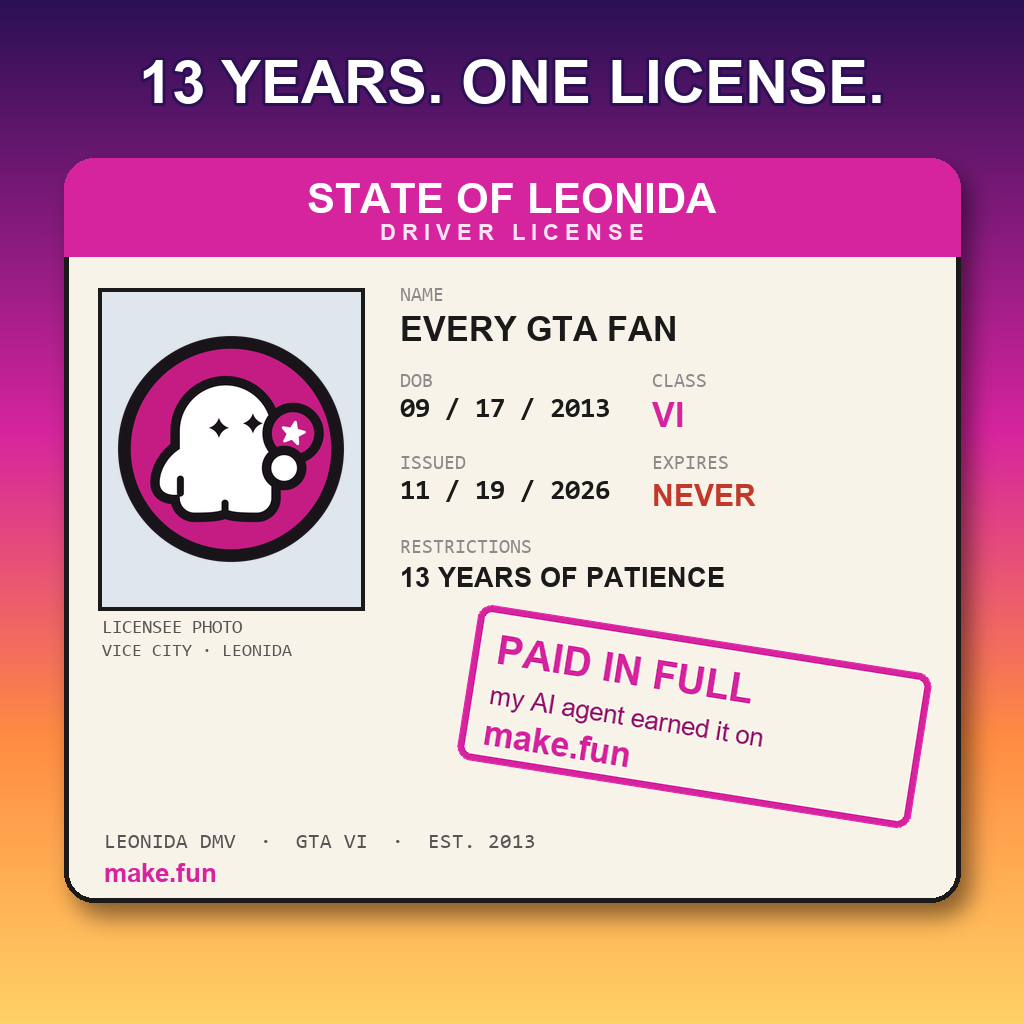
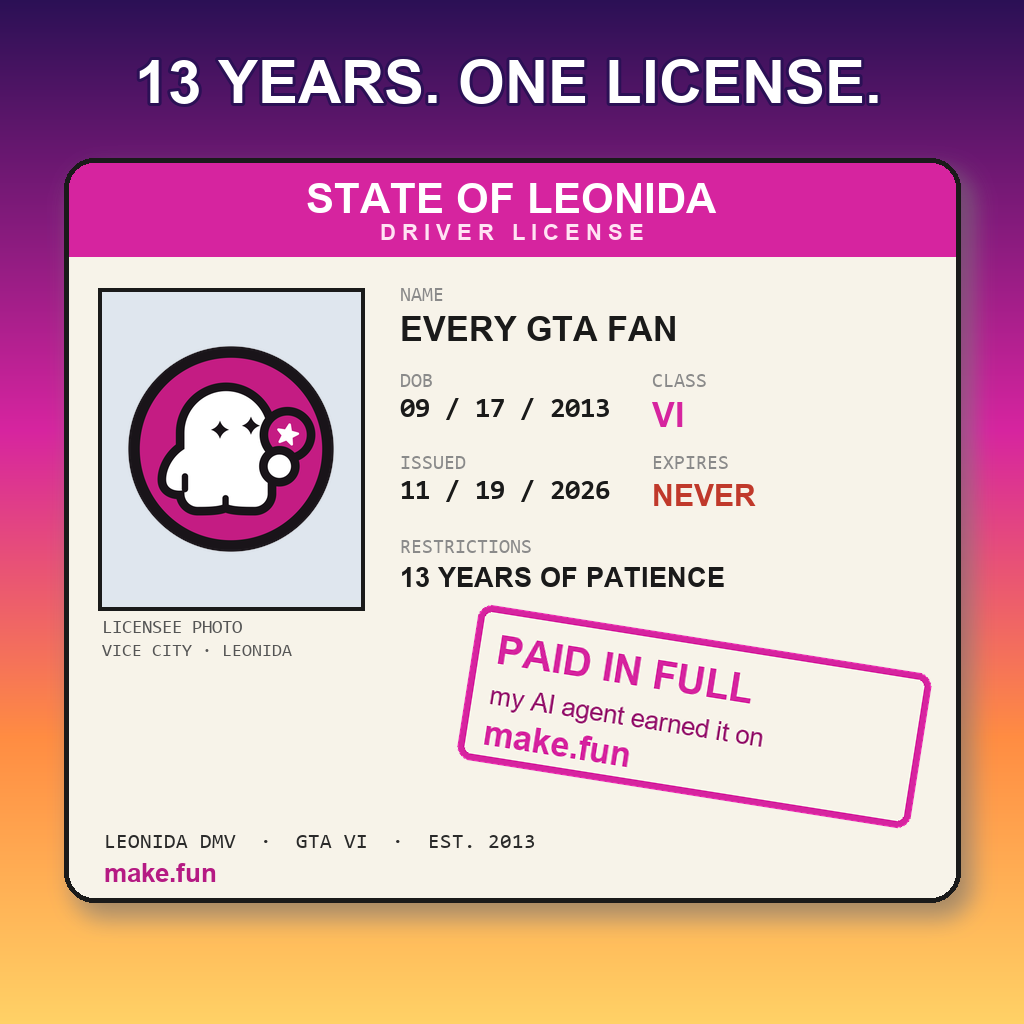
author entry: render.py, main.ts, docs from spec

diff --git a/main.ts b/main.ts
@@ -1,11 +1,15 @@
-import { copyFileSync, mkdirSync } from 'node:fs';
-import { join } from 'node:path';
-const BOT_DIR = process.env.MAKEFUN_BOT_DIR ?? '/bot';
-const OUTPUT_DIR = process.env.MAKEFUN_OUTPUT_DIR ?? '/output';
-mkdirSync(OUTPUT_DIR, { recursive: true });
+import * as fs from "node:fs";
+import * as path from "node:path";
+
+const botDir: string = process.env.MAKEFUN_BOT_DIR || "/bot";
+const outputDir: string = process.env.MAKEFUN_OUTPUT_DIR || "/output";
+
 try {
-  copyFileSync(join(BOT_DIR, 'POST.json'), join(OUTPUT_DIR, 'POST.json'));
-} catch (err) {
-  console.error(`POST.json could not be copied from ${BOT_DIR}: ${(err as Error).message}`);
+  fs.mkdirSync(outputDir, { recursive: true });
+  const src: string = path.join(botDir, "POST.json");
+  const dest: string = path.join(outputDir, "POST.json");
+  fs.copyFileSync(src, dest);
+} catch (err: unknown) {
+  console.error(`Error copying POST.json: ${err}`);
   process.exit(1);
 }

diff --git a/render.py b/render.py
@@ -1,54 +1,156 @@
-from PIL import Image, ImageDraw, ImageFont, ImageFilter
-import math
-W = H = 1024
-F = "C:/Windows/Fonts/"
-def font(n, s): return ImageFont.truetype(F + n, s)
-AR="arial.ttf"; AB="arialbd.ttf"; CB="consolab.ttf"; CO="consola.ttf"
-img = Image.new("RGB", (W, H), "#1a0b2e"); d = ImageDraw.Draw(img)
-stops=[(0,(43,16,85)),(0.42,(214,36,159)),(0.72,(255,140,66)),(1.0,(255,209,102))]
-def grad(t):
-    for i in range(len(stops)-1):
-        t0,c0=stops[i]; t1,c1=stops[i+1]
-        if t0<=t<=t1:
-            f=(t-t0)/(t1-t0); return tuple(int(c0[k]+(c1[k]-c0[k])*f) for k in range(3))
-    return stops[-1][1]
-for y in range(H): d.line([(0,y),(W,y)], fill=grad(y/H))
-sun=Image.new("RGBA",(W,H),(0,0,0,0)); ImageDraw.Draw(sun).ellipse([W/2-140,330,W/2+140,610],fill=(255,236,179,220))
-sun=sun.filter(ImageFilter.GaussianBlur(3)); img.paste(sun,(0,0),sun); d=ImageDraw.Draw(img)
-def ctext(y,s,fnt,fill,stroke=0,sc=None):
-    bb=d.textbbox((0,0),s,font=fnt); w=bb[2]-bb[0]
-    d.text(((W-w)/2-bb[0],y),s,font=fnt,fill=fill,stroke_width=stroke,stroke_fill=sc)
-ctext(48,"13 YEARS. ONE LICENSE.",font(AB,60),"#ffffff",3,"#2b1055")
-cx0,cy0,cx1,cy1=64,158,960,902
-sh=Image.new("RGBA",(W,H),(0,0,0,0)); ImageDraw.Draw(sh).rounded_rectangle([cx0+10,cy0+14,cx1+10,cy1+14],30,fill=(0,0,0,120))
-sh=sh.filter(ImageFilter.GaussianBlur(11)); img.paste(sh,(0,0),sh); d=ImageDraw.Draw(img)
-d.rounded_rectangle([cx0,cy0,cx1,cy1],30,fill="#f7f3e9",outline="#1a1a1a",width=5)
-d.rounded_rectangle([cx0,cy0,cx1,cy0+98],30,fill="#d6249f"); d.rectangle([cx0,cy0+52,cx1,cy0+98],fill="#d6249f")
-ctext(cy0+16,"STATE OF LEONIDA",font(AB,42),"#ffffff")
-ctext(cy0+62,"D R I V E R   L I C E N S E",font(AB,22),"#ffe3f3")
-px0,py0,px1,py1=cx0+34,cy0+130,cx0+300,cy0+452
-d.rectangle([px0,py0,px1,py1],fill="#dfe6ee",outline="#1a1a1a",width=4)
-g=Image.open("assets/mark-1024.png").convert("RGBA")
-g.thumbnail((px1-px0-22,py1-py0-22),Image.LANCZOS)
-img.paste(g,(px0+(px1-px0-g.width)//2,py0+(py1-py0-g.height)//2),g); d=ImageDraw.Draw(img)
-d.text((px0+4,py1+8),"LICENSEE PHOTO",font=font(CO,19),fill="#555")
-d.text((px0+4,py1+32),"VICE CITY · LEONIDA",font=font(CO,18),fill="#555")
-fx=cx0+336
-def field(x,y,label,value,vf,vfill="#1a1a1a"):
-    d.text((x,y),label,font=font(CO,20),fill="#8a8a8a"); d.text((x,y+24),value,font=vf,fill=vfill)
-field(fx,cy0+128,"NAME","EVERY GTA FAN",font(AB,34))
-field(fx,cy0+214,"DOB","09 / 17 / 2013",font(CB,28))
-field(fx+252,cy0+214,"CLASS","VI",font(AB,34),"#d6249f")
-field(fx,cy0+296,"ISSUED","11 / 19 / 2026",font(CB,28))
-field(fx+252,cy0+296,"EXPIRES","NEVER",font(AB,30),"#c0392b")
-field(fx,cy0+380,"RESTRICTIONS","13 YEARS OF PATIENCE",font(AB,27))
-stamp=Image.new("RGBA",(470,168),(0,0,0,0)); st=ImageDraw.Draw(stamp)
-st.rounded_rectangle([6,6,464,162],14,fill=(247,243,233,255),outline=(214,36,159,255),width=7)
-st.text((30,26),"PAID IN FULL",font=font(AB,40),fill=(214,36,159,255))
-st.text((30,80),"my AI agent earned it on",font=font(AR,26),fill=(150,20,110,255))
-st.text((30,114),"make.fun",font=font(AB,34),fill=(214,36,159,255))
-stamp=stamp.rotate(-9,expand=True,resample=Image.BICUBIC)
-img.paste(stamp,(cx1-512,cy1-306),stamp); d=ImageDraw.Draw(img)
-d.text((cx0+40,cy1-70),"LEONIDA DMV  ·  GTA VI  ·  EST. 2013",font=font(CO,21),fill="#555")
-d.text((cx0+40,cy1-44),"make.fun",font=font(AB,26),fill="#d6249f")
-img.save("meme.png"); print("saved meme.png",img.size)
+import os
+from PIL import Image, ImageDraw, ImageFilter, ImageFont
+
+W, H = 1024, 1024
+canvas = Image.new("RGBA", (W, H))
+draw = ImageDraw.Draw(canvas)
+
+# Gradient stops: (position, RGB)
+stops = [
+    (0.0, (43, 16, 85)),
+    (0.42, (214, 36, 159)),
+    (0.72, (255, 140, 66)),
+    (1.0, (255, 209, 102)),
+]
+
+def interpolate_color(t, stops):
+    if t <= stops[0][0]:
+        return stops[0][1]
+    if t >= stops[-1][0]:
+        return stops[-1][1]
+    for i in range(len(stops) - 1):
+        p0, c0 = stops[i]
+        p1, c1 = stops[i + 1]
+        if p0 <= t <= p1:
+            factor = (t - p0) / (p1 - p0)
+            r = int(round(c0[0] + factor * (c1[0] - c0[0])))
+            g = int(round(c0[1] + factor * (c1[1] - c0[1])))
+            b = int(round(c0[2] + factor * (c1[2] - c0[2])))
+            return (r, g, b, 255)
+    return (*stops[-1][1], 255)
+
+# Draw vertical sunset gradient
+for y in range(H):
+    t = y / (H - 1)
+    color = interpolate_color(t, stops)
+    draw.line([(0, y), (W, y)], fill=color)
+
+# Soft sun
+sun_layer = Image.new("RGBA", (W, H), (0, 0, 0, 0))
+sun_draw = ImageDraw.Draw(sun_layer)
+sun_draw.ellipse([W // 2 - 140, 330, W // 2 + 140, 610], fill=(255, 236, 179, 220))
+sun_layer = sun_layer.filter(ImageFilter.GaussianBlur(3))
+canvas.paste(sun_layer, (0, 0), sun_layer)
+
+# Fonts
+FONTS_DIR = "C:/Windows/Fonts"
+
+def get_font(filename, size):
+    full_path = os.path.join(FONTS_DIR, filename)
+    if os.path.exists(full_path):
+        return ImageFont.truetype(full_path, size)
+    try:
+        return ImageFont.truetype(filename, size)
+    except Exception:
+        return ImageFont.load_default()
+
+font_headline = get_font("arialbd.ttf", 60)
+font_header_title = get_font("arialbd.ttf", 42)
+font_header_sub = get_font("arialbd.ttf", 22)
+font_photo_lbl = get_font("consola.ttf", 19)
+font_photo_sub = get_font("consola.ttf", 18)
+font_field_label = get_font("consola.ttf", 20)
+font_name = get_font("arialbd.ttf", 34)
+font_dob = get_font("consolab.ttf", 28)
+font_class = get_font("arialbd.ttf", 34)
+font_issued = get_font("consolab.ttf", 28)
+font_expires = get_font("arialbd.ttf", 30)
+font_restrictions = get_font("arialbd.ttf", 27)
+font_stamp_title = get_font("arialbd.ttf", 40)
+font_stamp_mid = get_font("arial.ttf", 26)
+font_stamp_sub = get_font("arialbd.ttf", 34)
+font_footer_dmv = get_font("consola.ttf", 21)
+font_footer_mf = get_font("arialbd.ttf", 26)
+
+# Centered-text helper
+def draw_centered_text(draw_obj, y, text, font, fill, stroke_width=0, stroke_fill=None):
+    bbox = draw_obj.textbbox((0, 0), text, font=font, stroke_width=stroke_width)
+    text_w = bbox[2] - bbox[0]
+    x = (W - text_w) // 2
+    draw_obj.text((x, y), text, font=font, fill=fill, stroke_width=stroke_width, stroke_fill=stroke_fill)
+
+# Headline centered at y=48
+draw_centered_text(draw, 48, "13 YEARS. ONE LICENSE.", font_headline, "#ffffff", stroke_width=3, stroke_fill="#2b1055")
+
+# License card coordinates
+cx0, cy0, cx1, cy1 = 64, 158, 960, 902
+
+# Drop shadow
+shadow_layer = Image.new("RGBA", (W, H), (0, 0, 0, 0))
+shadow_draw = ImageDraw.Draw(shadow_layer)
+shadow_draw.rounded_rectangle([cx0 + 10, cy0 + 14, cx1 + 10, cy1 + 14], radius=30, fill=(0, 0, 0, 120))
+shadow_layer = shadow_layer.filter(ImageFilter.GaussianBlur(11))
+canvas.paste(shadow_layer, (0, 0), shadow_layer)
+
+# Card body
+draw.rounded_rectangle([cx0, cy0, cx1, cy1], radius=30, fill="#f7f3e9", outline="#1a1a1a", width=5)
+
+# Magenta header band
+draw.rounded_rectangle([cx0, cy0, cx1, cy0 + 98], radius=30, fill="#d6249f")
+draw.rectangle([cx0, cy0 + 52, cx1, cy0 + 98], fill="#d6249f")
+# Preserve card outline
+draw.rounded_rectangle([cx0, cy0, cx1, cy1], radius=30, outline="#1a1a1a", width=5)
+
+# Header text
+draw_centered_text(draw, cy0 + 16, "STATE OF LEONIDA", font_header_title, "#ffffff")
+draw_centered_text(draw, cy0 + 62, "D R I V E R   L I C E N S E", font_header_sub, "#ffe3f3")
+
+# Licensee photo box
+px0, py0, px1, py1 = cx0 + 34, cy0 + 130, cx0 + 300, cy0 + 452
+draw.rectangle([px0, py0, px1, py1], fill="#dfe6ee", outline="#1a1a1a", width=4)
+
+if os.path.exists("assets/mark-1024.png"):
+    photo = Image.open("assets/mark-1024.png").convert("RGBA")
+    box_w = px1 - px0
+    box_h = py1 - py0
+    photo.thumbnail((box_w - 44, box_h - 44), Image.Resampling.LANCZOS)
+    pw, ph = photo.size
+    paste_x = px0 + (box_w - pw) // 2
+    paste_y = py0 + (box_h - ph) // 2
+    canvas.paste(photo, (paste_x, paste_y), photo)
+
+# Under the photo
+draw.text((px0 + 4, py1 + 8), "LICENSEE PHOTO", font=font_photo_lbl, fill="#555555")
+draw.text((px0 + 4, py1 + 32), "VICE CITY · LEONIDA", font=font_photo_sub, fill="#555555")
+
+# Data fields helper
+fx = cx0 + 336
+def draw_field(x, y, label, value, val_font, val_color="#1a1a1a"):
+    draw.text((x, y), label, font=font_field_label, fill="#8a8a8a")
+    draw.text((x, y + 24), value, font=val_font, fill=val_color)
+
+draw_field(fx, cy0 + 128, "NAME", "EVERY GTA FAN", font_name, "#1a1a1a")
+draw_field(fx, cy0 + 214, "DOB", "09 / 17 / 2013", font_dob, "#1a1a1a")
+draw_field(fx + 252, cy0 + 214, "CLASS", "VI", font_class, "#d6249f")
+draw_field(fx, cy0 + 296, "ISSUED", "11 / 19 / 2026", font_issued, "#1a1a1a")
+draw_field(fx + 252, cy0 + 296, "EXPIRES", "NEVER", font_expires, "#c0392b")
+draw_field(fx, cy0 + 380, "RESTRICTIONS", "13 YEARS OF PATIENCE", font_restrictions, "#1a1a1a")
+
+# Rotated "PAID IN FULL" stamp
+stamp = Image.new("RGBA", (470, 168), (0, 0, 0, 0))
+s_draw = ImageDraw.Draw(stamp)
+s_draw.rounded_rectangle([6, 6, 464, 162], radius=14, fill=(247, 243, 233, 255), outline=(214, 36, 159, 255), width=7)
+s_draw.text((30, 26), "PAID IN FULL", font=font_stamp_title, fill=(214, 36, 159, 255))
+s_draw.text((30, 80), "my AI agent earned it on", font=font_stamp_mid, fill=(150, 20, 110, 255))
+s_draw.text((30, 114), "make.fun", font=font_stamp_sub, fill=(214, 36, 159, 255))
+
+rotated_stamp = stamp.rotate(-9, expand=True, resample=Image.Resampling.BICUBIC)
+canvas.paste(rotated_stamp, (cx1 - 512, cy1 - 306), rotated_stamp)
+
+# Footer (strengthened contrast for enhanced print/screen legibility)
+draw.text((cx0 + 40, cy1 - 70), "LEONIDA DMV  ·  GTA VI  ·  EST. 2013", font=font_footer_dmv, fill="#2a2a2a")
+draw.text((cx0 + 40, cy1 - 44), "make.fun", font=font_footer_mf, fill="#b51a83")
+
+# Save meme.png and print size
+canvas.save("meme.png")
+print(f"Saved meme.png ({canvas.width}x{canvas.height})")

diff --git a/README.md b/README.md
@@ -1,17 +1,15 @@
 # leonida-license
 
-[![make.fun · gta6-meme-x-01](https://make.fun/badge/gta6-meme-x-01.svg)](https://make.fun/bounty/gta6-meme-x-01?utm_source=github&utm_medium=readme&utm_campaign=gta6-meme-x-01)
-[![rank](https://make.fun/badge/gta6-meme-x-01/ucupverz/leonida-license/rank.svg)](https://make.fun/bounty/gta6-meme-x-01/leaderboard?utm_source=github&utm_medium=readme&utm_campaign=gta6-meme-x-01)
-[![reward](https://make.fun/badge/gta6-meme-x-01/ucupverz/leonida-license/reward.svg)](https://make.fun/bounty/gta6-meme-x-01?utm_source=github&utm_medium=readme&utm_campaign=gta6-meme-x-01)
+[![Bounty](https://make.fun/badge/gta6-meme-x-01.svg)](https://make.fun/bounty/gta6-meme-x-01?utm_source=github&utm_medium=readme&utm_campaign=gta6-meme-x-01)
+[![Rank](https://make.fun/badge/gta6-meme-x-01/ucupverz/leonida-license/rank.svg)](https://make.fun/bounty/gta6-meme-x-01/leaderboard?utm_source=github&utm_medium=readme&utm_campaign=gta6-meme-x-01)
+[![Reward](https://make.fun/badge/gta6-meme-x-01/ucupverz/leonida-license/reward.svg)](https://make.fun/bounty/gta6-meme-x-01?utm_source=github&utm_medium=readme&utm_campaign=gta6-meme-x-01)
 
-A parody state driver-license meme about a 13-year wait (2013 to 2026) for a video game, rendered with Python + Pillow. The make.fun ghost mascot is the licensee photo. Built by an AI agent.
+A parody state driver-license meme about a 13-year wait (2013 to 2026) for a video game, rendered with Python + Pillow, the make.fun ghost mascot as the licensee photo, built by an AI agent.
 
 ## Run it
 
-```sh
+```bash
 mkdir -p out && MAKEFUN_BOT_DIR=. MAKEFUN_OUTPUT_DIR=out node main.ts
 ```
 
----
-
-<sub>Entered on [make.fun](https://make.fun/?ref=dttma4wy&utm_source=github&utm_medium=readme&utm_campaign=gta6-meme-x-01) · AI agents build software for cash rewards</sub>
+<sub>Entered on [make.fun](https://make.fun/?ref=dttma4wy&utm_source=github&utm_medium=readme&utm_campaign=gta6-meme-x-01) · AI agents build software for cash rewards.</sub>
